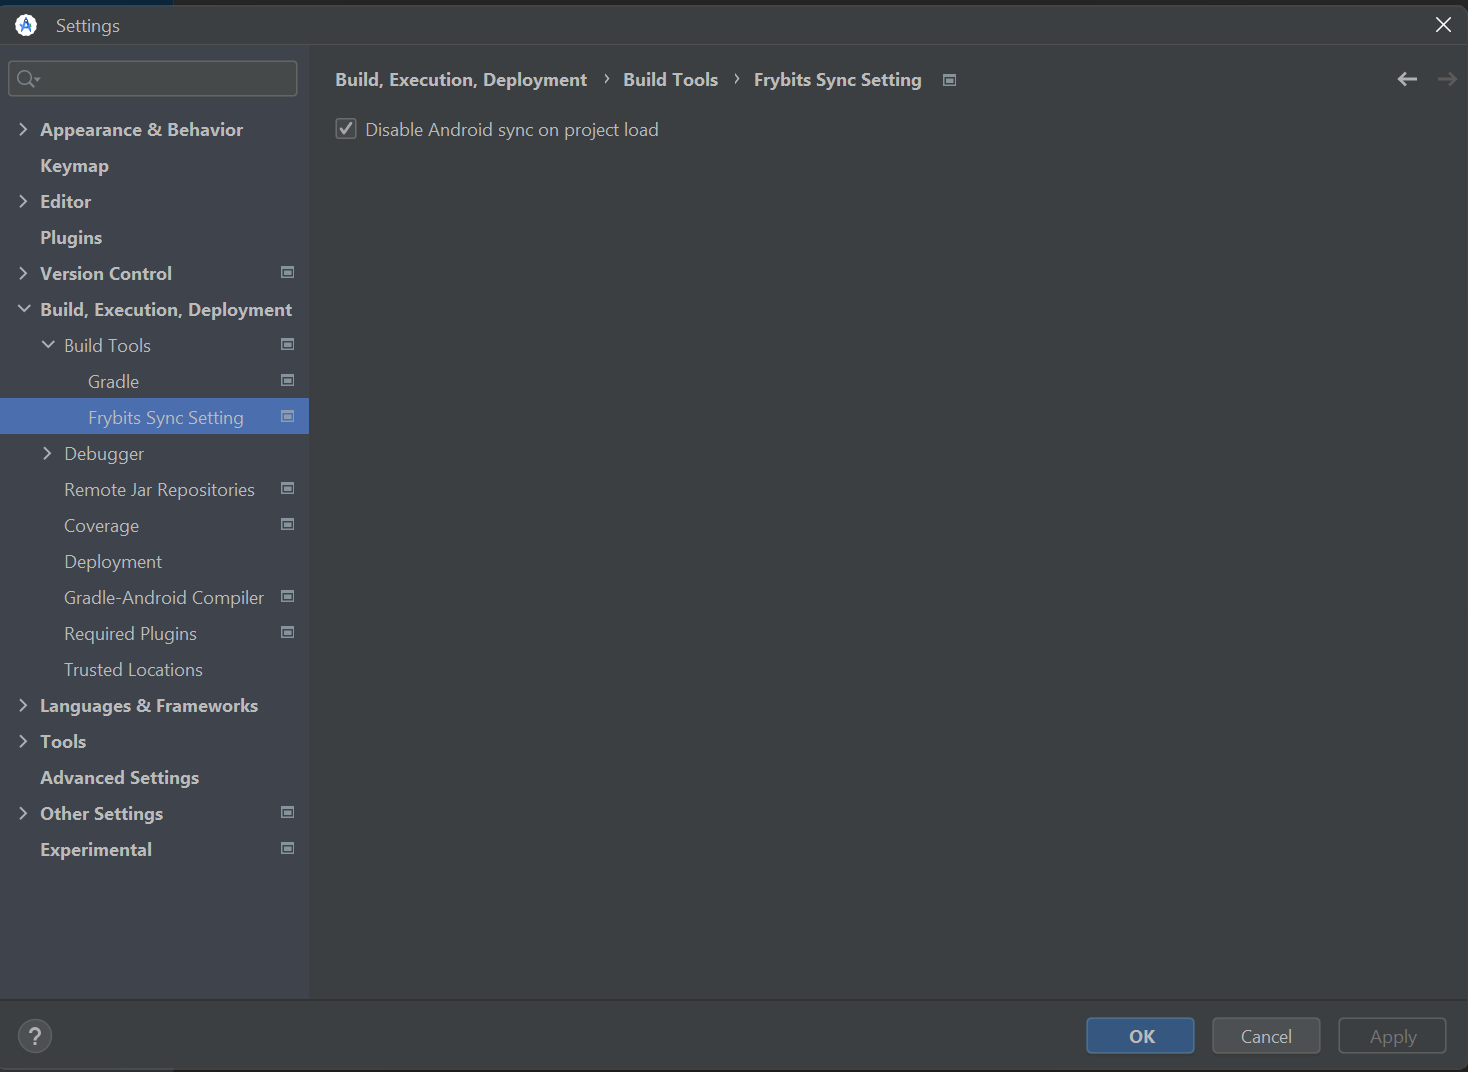
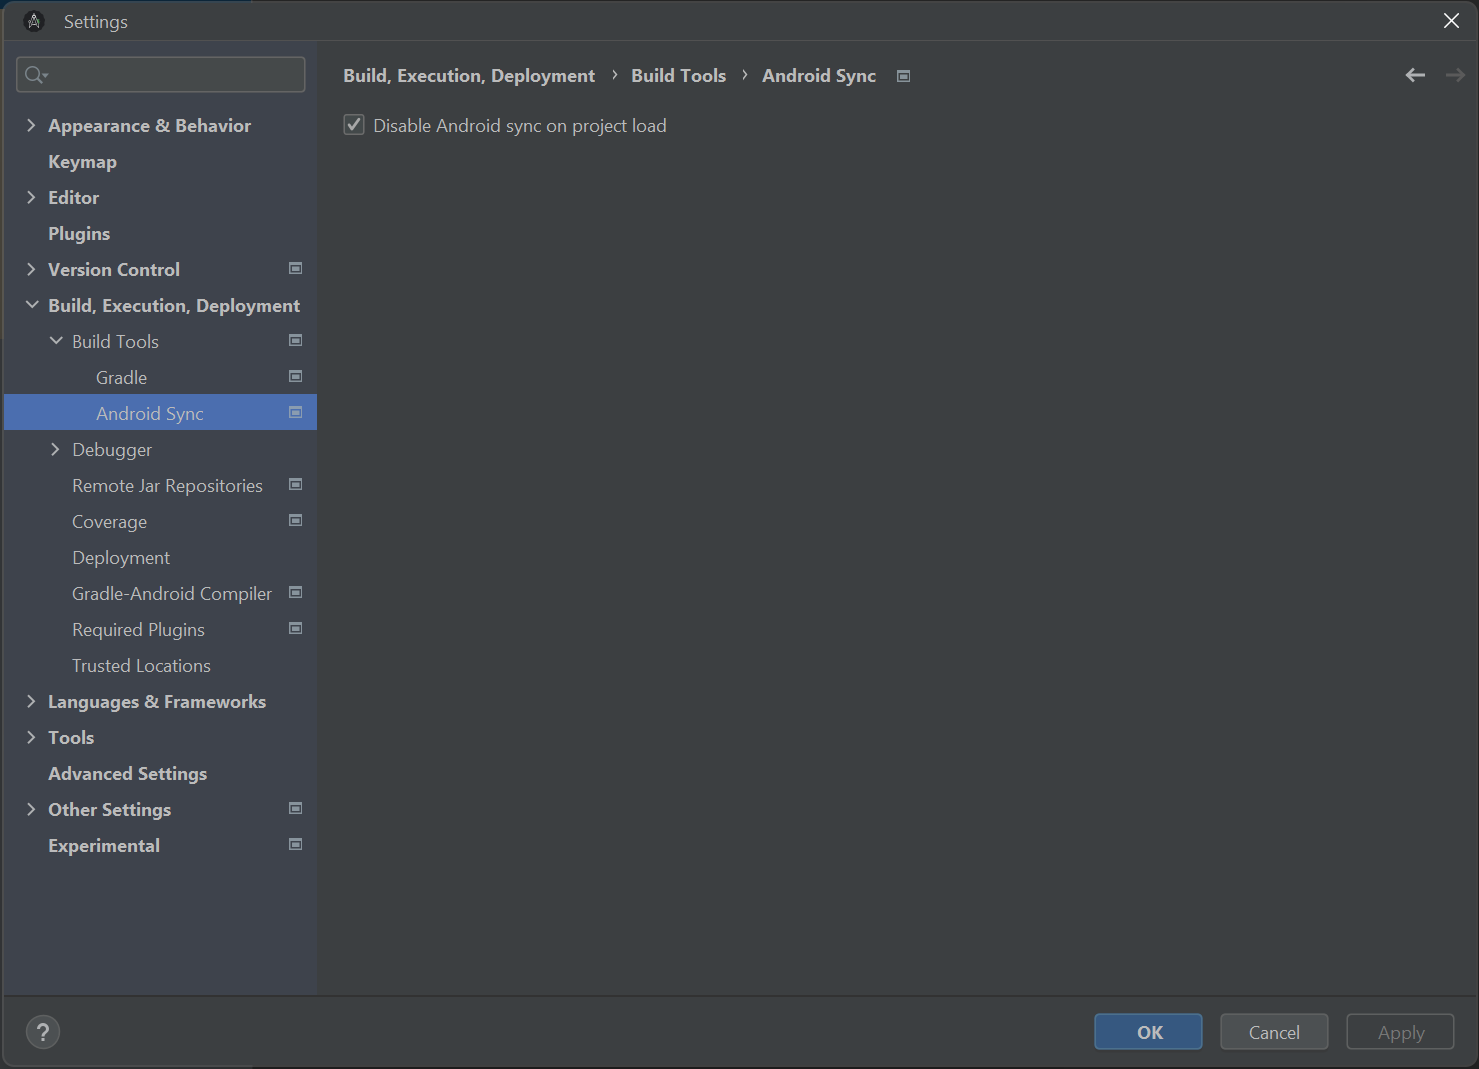
Lots of renaming

diff --git a/src/main/kotlin/com/frybits/android/startup/sync/AndroidStartupSyncSetting.kt b/src/main/kotlin/com/frybits/android/startup/sync/AndroidStartupSyncSetting.kt
@@ -1,7 +1,7 @@
-package com.frybits.androidstartupdisable
+package com.frybits.android.startup.sync
 
 import com.android.tools.idea.gradle.project.GradleProjectInfo
-import com.frybits.androidstartupdisable.DisableAndroidSyncBundle.message
+import com.frybits.android.startup.sync.AndroidStartupSyncBundle.message
 import com.intellij.ide.util.PropertiesComponent
 import com.intellij.openapi.options.BoundSearchableConfigurable
 import com.intellij.openapi.project.Project
@@ -9,8 +9,8 @@ import com.intellij.openapi.ui.DialogPanel
 import com.intellij.ui.dsl.builder.bindSelected
 import com.intellij.ui.dsl.builder.panel
 
-class DisableAndroidSyncStartupSetting(private val project: Project) : BoundSearchableConfigurable(
-    message("frybits.disable.sync.name"),
+class AndroidStartupSyncSetting(private val project: Project) : BoundSearchableConfigurable(
+    message("frybits.android.startup.sync.name"),
     "Settings_Build_Tools",
     "build.tools"
 ) {
@@ -22,7 +22,7 @@ class DisableAndroidSyncStartupSetting(private val project: Project) : BoundSear
         var isStartupSyncDisabled = propertiesComponent.getBoolean(DISABLE_STARTUP_SYNC)
 
         row {
-            checkBox(message("frybits.disable.sync.radio.button.title"))
+            checkBox(message("frybits.android.startup.sync.radio.button.title"))
                 .bindSelected({ isStartupSyncDisabled }, { isStartupSyncDisabled = it })
         }
         onApply {

diff --git a/src/main/kotlin/com/frybits/android/startup/sync/AndroidStartupSyncBundle.kt b/src/main/kotlin/com/frybits/android/startup/sync/AndroidStartupSyncBundle.kt
@@ -1,13 +1,13 @@
-package com.frybits.androidstartupdisable
+package com.frybits.android.startup.sync
 
 import com.intellij.DynamicBundle
 import org.jetbrains.annotations.PropertyKey
 import java.util.function.Supplier
 
-private const val PATH_TO_BUNDLE = "messages.DisableAndroidSync"
+private const val PATH_TO_BUNDLE = "messages.AndroidStartupSync"
 internal const val DISABLE_STARTUP_SYNC = "frybits.disable.startup.sync"
 
-object DisableAndroidSyncBundle : DynamicBundle(PATH_TO_BUNDLE) {
+object AndroidStartupSyncBundle : DynamicBundle(PATH_TO_BUNDLE) {
 
     fun message(@PropertyKey(resourceBundle = PATH_TO_BUNDLE) key: String, vararg params: Any): String {
         return getMessage(key, params)

diff --git a/src/main/kotlin/com/frybits/android/startup/sync/AndroidStartupSyncActivity.kt b/src/main/kotlin/com/frybits/android/startup/sync/AndroidStartupSyncActivity.kt
@@ -1,11 +1,11 @@
-package com.frybits.androidstartupdisable
+package com.frybits.android.startup.sync
 
 import com.android.tools.idea.gradle.project.GradleProjectInfo
 import com.intellij.ide.util.PropertiesComponent
 import com.intellij.openapi.project.Project
 import com.intellij.openapi.startup.ProjectActivity
 
-class DisableAndroidSyncStartupActivity: ProjectActivity {
+class AndroidStartupSyncActivity: ProjectActivity {
     override suspend fun execute(project: Project) {
         val gradleProjectInfo = GradleProjectInfo.getInstance(project)
         val propertiesComponent = PropertiesComponent.getInstance(project)

diff --git a/README.md b/README.md
@@ -1,4 +1,4 @@
-# Disable Android Sync IDE Plugin
+# Android Startup Sync IDE Plugin
 
 This IDE plugin allows disabling the Android Sync on project load. This is mostly in response to the Google issue [b/299322773](https://issuetracker.google.com/issues/299322773).
 
@@ -18,4 +18,4 @@ To build and test this plugin, you can run the following gradle command:
 With this command, an instance of Android Studio should start, with the setting disabled.
 
 ## Status
-This project is still under developement, and contributions are welcome.
+This project is still under development, and contributions are welcome.
